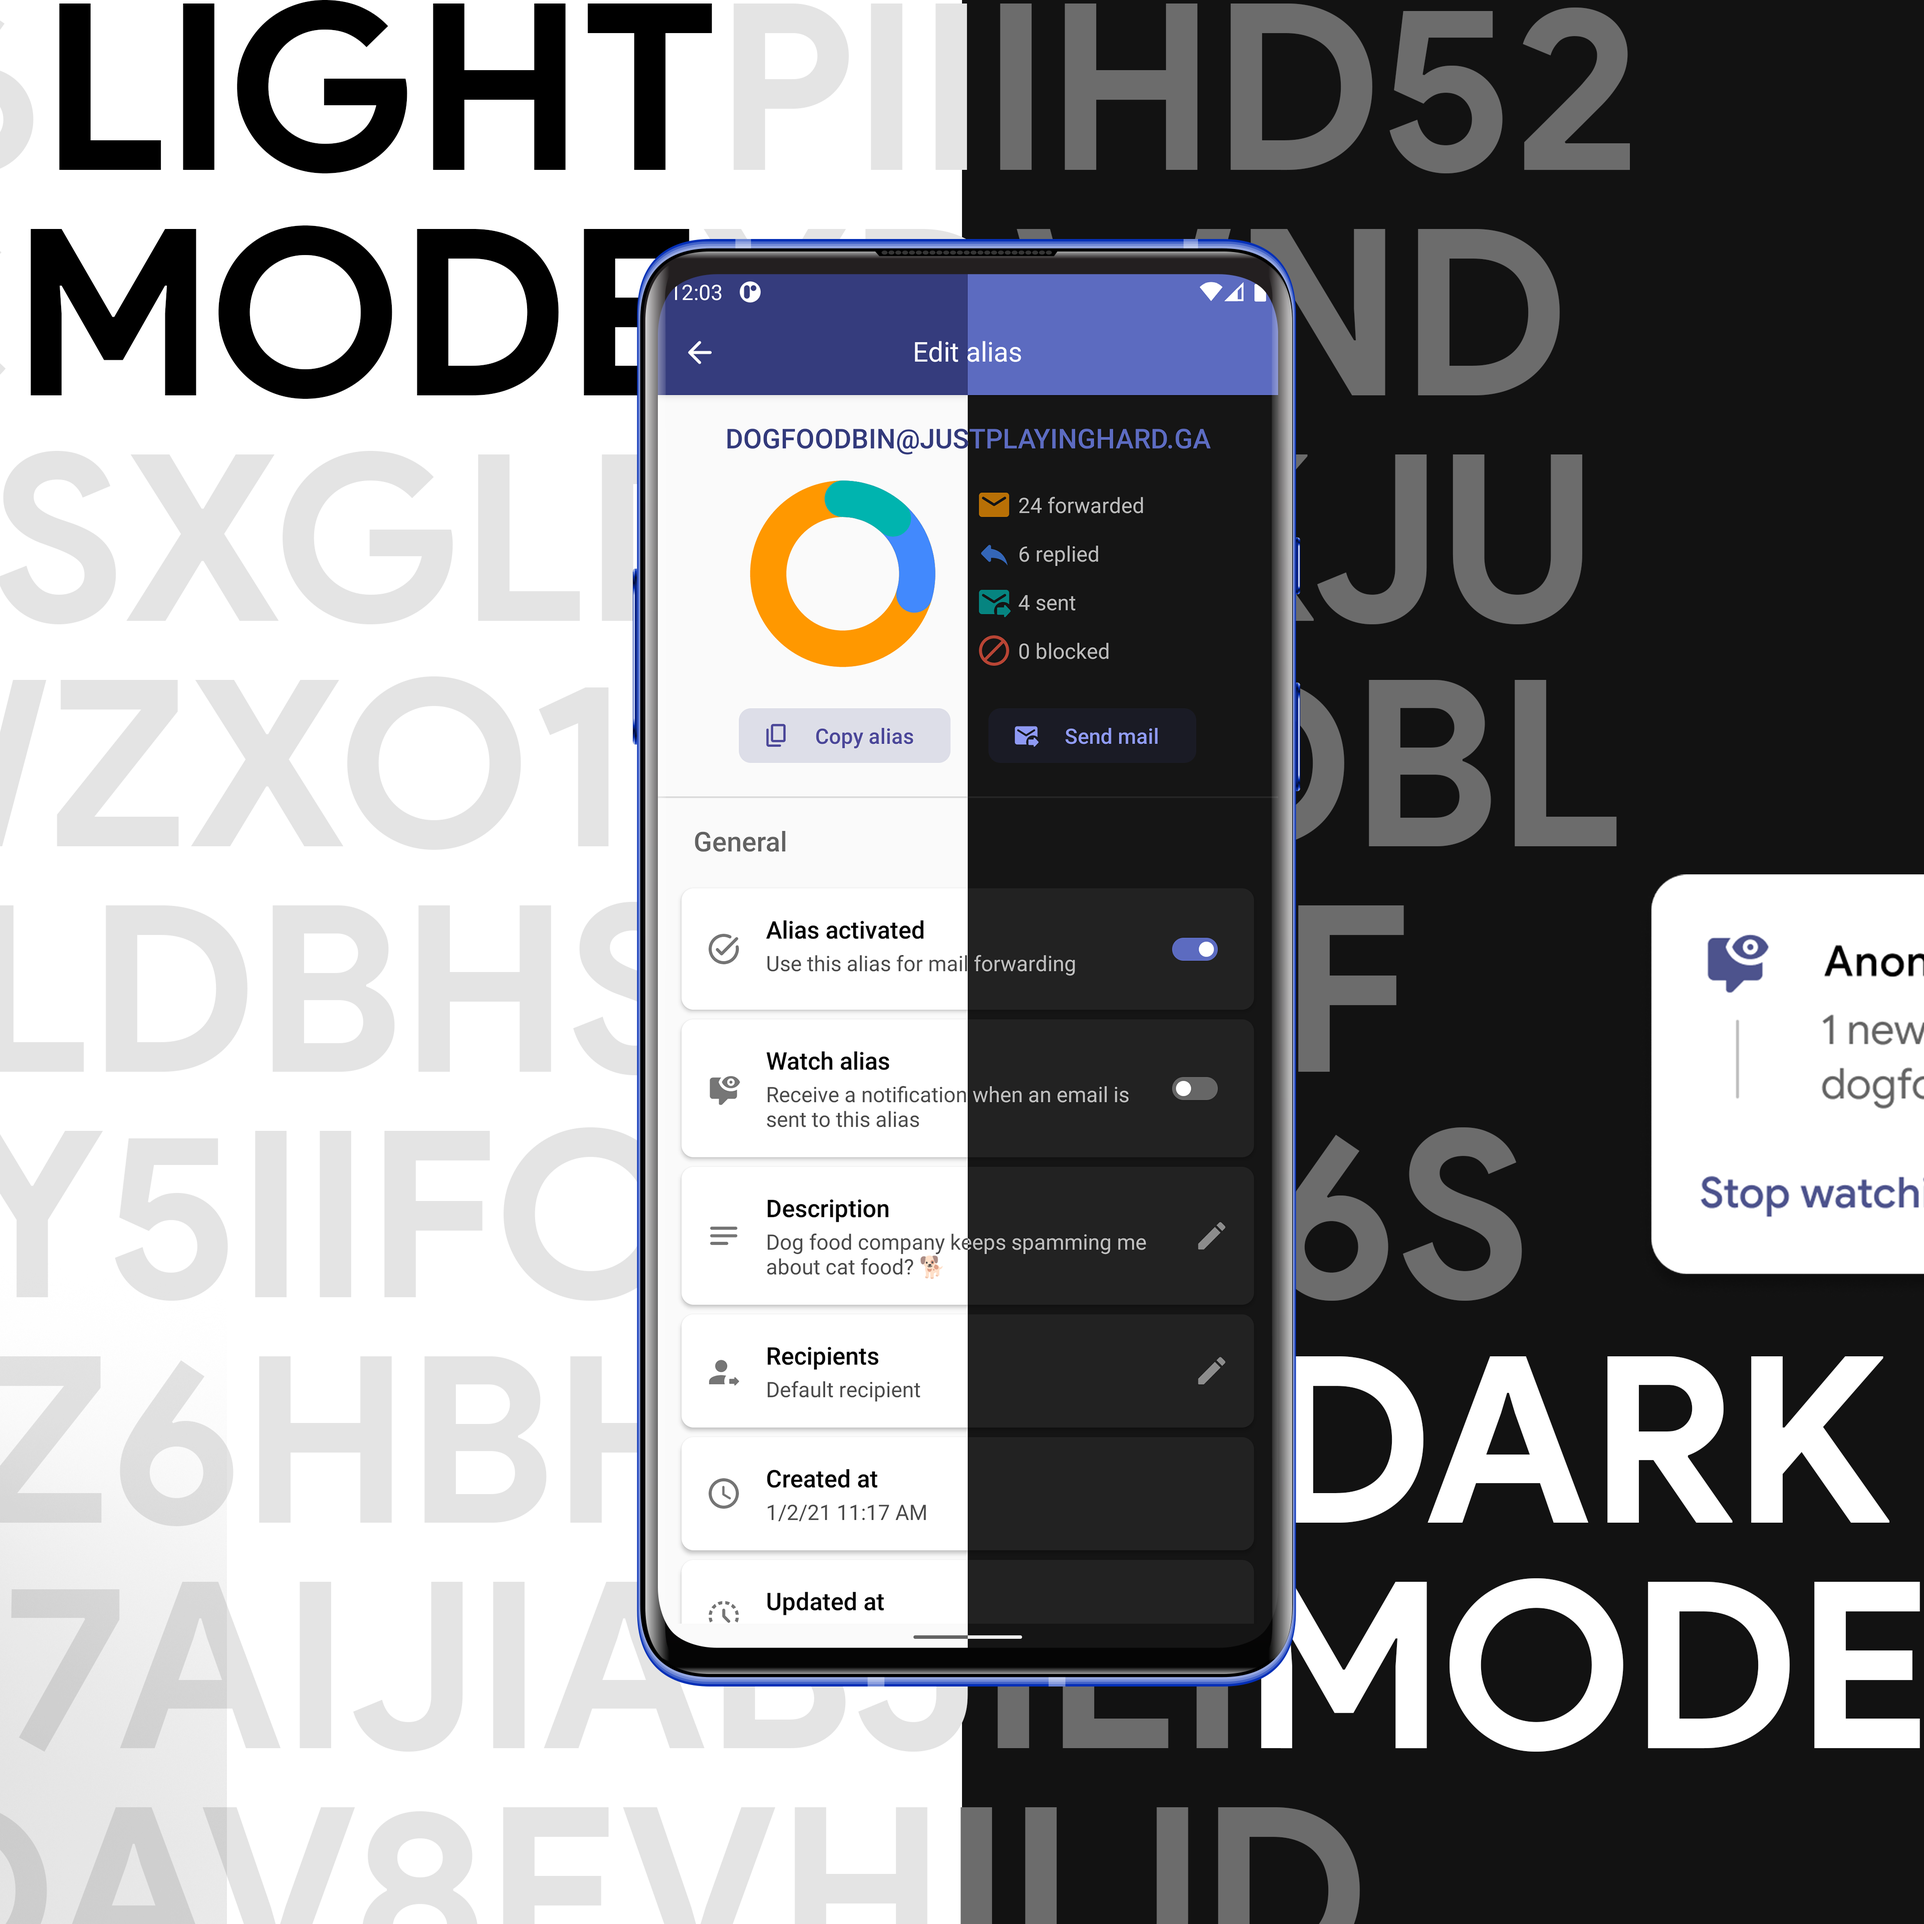
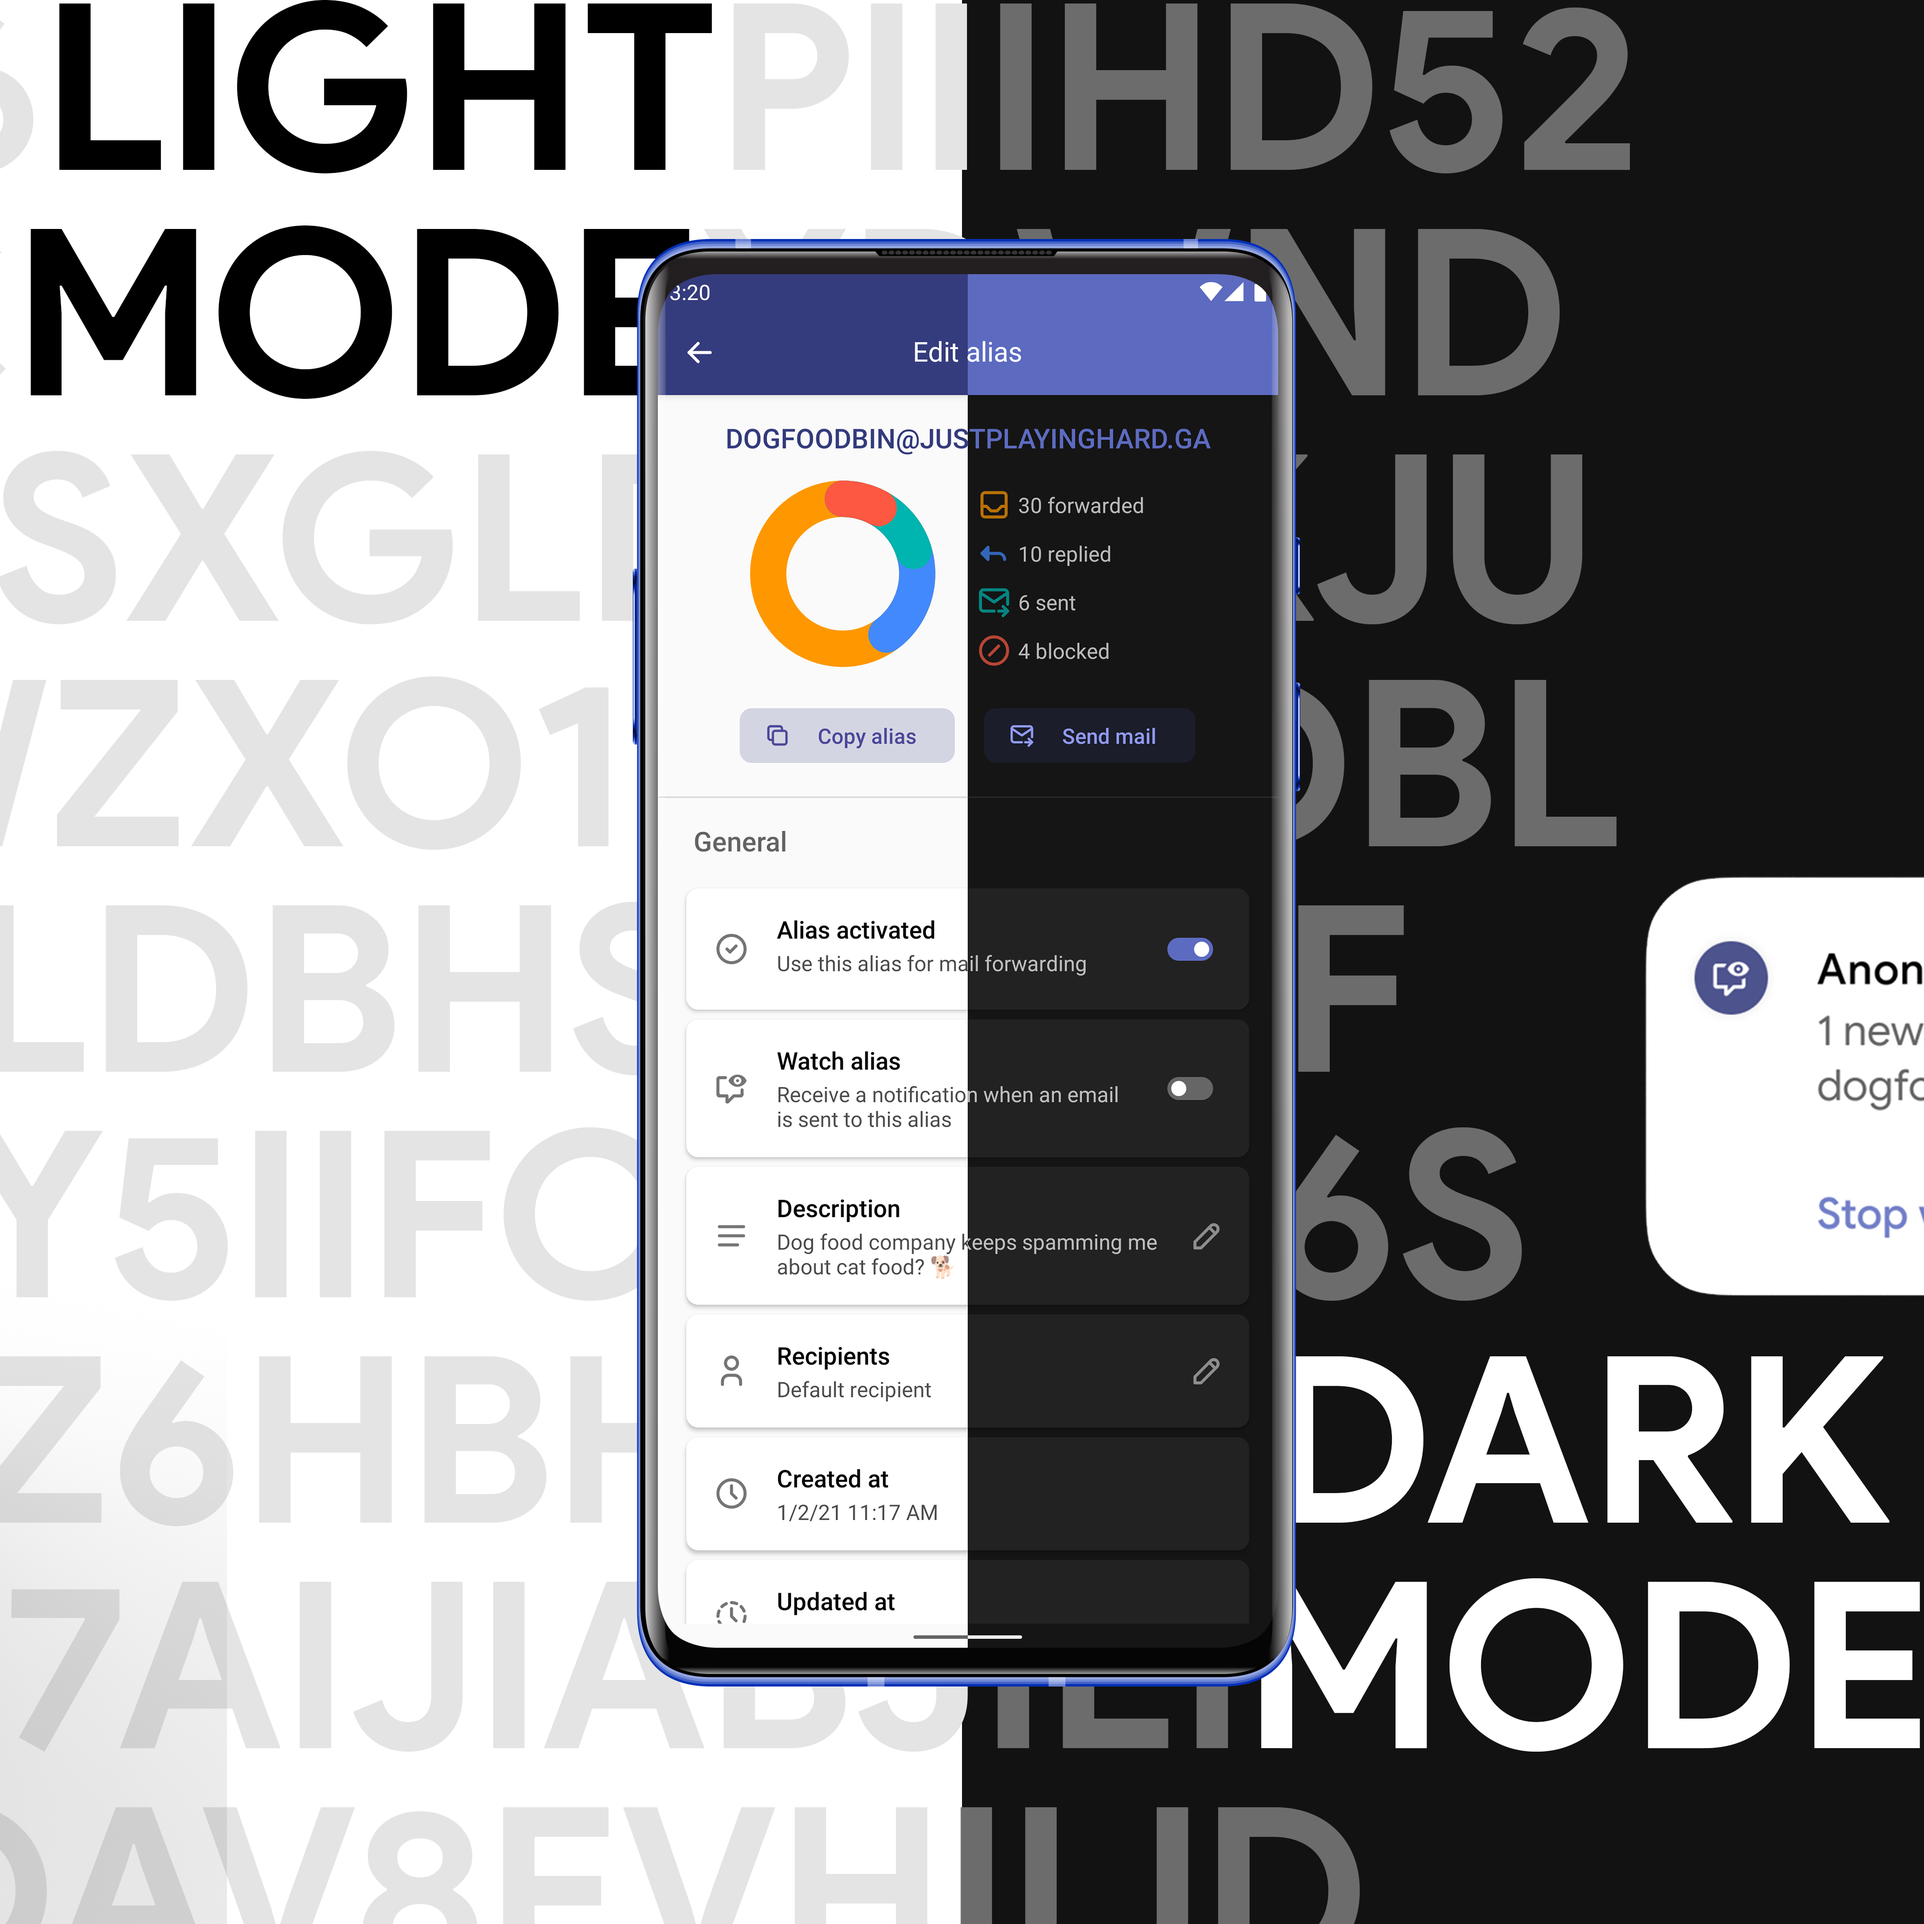
- More UI changes - Updated changelog - Updated assets

diff --git a/app/src/main/java/host/stjin/anonaddy/SettingsManager.kt b/app/src/main/java/host/stjin/anonaddy/SettingsManager.kt
@@ -2,9 +2,13 @@ package host.stjin.anonaddy
 
 import android.app.ActivityManager
 import android.content.Context
+import android.security.keystore.KeyGenParameterSpec
+import android.security.keystore.KeyProperties
 import androidx.preference.PreferenceManager
 import androidx.security.crypto.EncryptedSharedPreferences
-import androidx.security.crypto.MasterKeys
+import androidx.security.crypto.MasterKey
+import androidx.security.crypto.MasterKey.DEFAULT_AES_GCM_MASTER_KEY_SIZE
+import androidx.security.crypto.MasterKey.DEFAULT_MASTER_KEY_ALIAS
 
 
 class SettingsManager(encrypt: Boolean, private val context: Context) {
@@ -52,14 +56,30 @@ class SettingsManager(encrypt: Boolean, private val context: Context) {
     private val prefs = if (!encrypt) {
         PreferenceManager.getDefaultSharedPreferences(context)
     } else {
-        val masterKeyAlias = MasterKeys.getOrCreate(MasterKeys.AES256_GCM_SPEC)
+        val masterKeyAlias = getMasterKey()
         EncryptedSharedPreferences.create(
+            context,
             "host.stjin.anonaddy_enc_user$user",
             masterKeyAlias,
-            context,
             EncryptedSharedPreferences.PrefKeyEncryptionScheme.AES256_SIV,
             EncryptedSharedPreferences.PrefValueEncryptionScheme.AES256_GCM
         )
+    }
+
+    private fun getMasterKey(): MasterKey {
+        // this is equivalent to using deprecated MasterKeys.AES256_GCM_SPEC
+        val spec = KeyGenParameterSpec.Builder(
+            DEFAULT_MASTER_KEY_ALIAS,
+            KeyProperties.PURPOSE_ENCRYPT or KeyProperties.PURPOSE_DECRYPT
+        )
+            .setBlockModes(KeyProperties.BLOCK_MODE_GCM)
+            .setEncryptionPaddings(KeyProperties.ENCRYPTION_PADDING_NONE)
+            .setKeySize(DEFAULT_AES_GCM_MASTER_KEY_SIZE)
+            .build()
+
+        return MasterKey.Builder(context)
+            .setKeyGenParameterSpec(spec)
+            .build()
     }
 
     fun putSettingsBool(key: PREFS, boolean: Boolean) {

diff --git a/app/src/main/java/host/stjin/anonaddy/ui/domains/manage/ManageDomainsActivity.kt b/app/src/main/java/host/stjin/anonaddy/ui/domains/manage/ManageDomainsActivity.kt
@@ -410,9 +410,11 @@ class ManageDomainsActivity : BaseActivity(),
                 if (list.domain_sending_verified_at == null) {
                     binding.activityManageDomainCheckDns.setImageResourceIcons(R.drawable.ic_dns_alert, null)
                     binding.activityManageDomainCheckDns.setDescription(resources.getString(R.string.check_dns_desc_incorrect))
+                    binding.activityManageDomainCheckDns.setSectionAlert(true)
                 } else {
                     binding.activityManageDomainCheckDns.setImageResourceIcons(R.drawable.ic_dns, null)
                     binding.activityManageDomainCheckDns.setDescription(resources.getString(R.string.check_dns_desc))
+                    binding.activityManageDomainCheckDns.setSectionAlert(false)
                 }
 
 

diff --git a/app/src/main/java/host/stjin/anonaddy/ui/domains/DomainSettingsActivity.kt b/app/src/main/java/host/stjin/anonaddy/ui/domains/DomainSettingsActivity.kt
@@ -189,8 +189,6 @@ class DomainSettingsActivity : BaseActivity(), AddDomainBottomDialogFragment.Add
                     binding.activityDomainSettingsRLLottieview.visibility = View.VISIBLE
                 }
                 hideShimmer()
-
-
             }
 
         }

diff --git a/README.md b/README.md
@@ -17,7 +17,7 @@ Easily create and manage your AnonAddy aliases, recipients and more from your ph
 
 > AnonAddy
 
-- AnonAddy v0.7.4 or higher (current version of AnonAddy for Android has been tested with v0.7.4)
+- AnonAddy v0.8.1 or higher (current version of AnonAddy for Android has been tested with v0.8.1)
 
 > Android
 
@@ -35,6 +35,7 @@ Easily create and manage your AnonAddy aliases, recipients and more from your ph
   - Watching aliases for new emails
   - Get notified when a new update is available
   - Send emails from aliases by selecting an email address or clicking a mailto link
+  - Get notified on failed deliveries
 - Enable error logging to *locally* store exceptions for easy troubleshooting
 - Widgets!
 
@@ -54,6 +55,7 @@ Easily create and manage your AnonAddy aliases, recipients and more from your ph
 - Domains
 - Usernames
 - Rules
+- Failed deliveries
 
 ## Download
 

diff --git a/CHANGELOG.md b/CHANGELOG.md
@@ -1,5 +1,19 @@
 # Changelog
 
+## [v3.1.0] - TBD
+
+### Added
+
+- View and manage your failed deliveries! Optionally, you can also receive a notification in case of failed deliveries
+
+### Fixed/Improved
+
+- More UI changes that make the app look better
+    - The iconography has changed from Material to Tabler for a unique experience
+    - More animations
+
+- Performance improvements and other things I might have forgot to make the app even smoother
+
 ## [v3.0.0] - 2021-07-31
 
 ### Added
